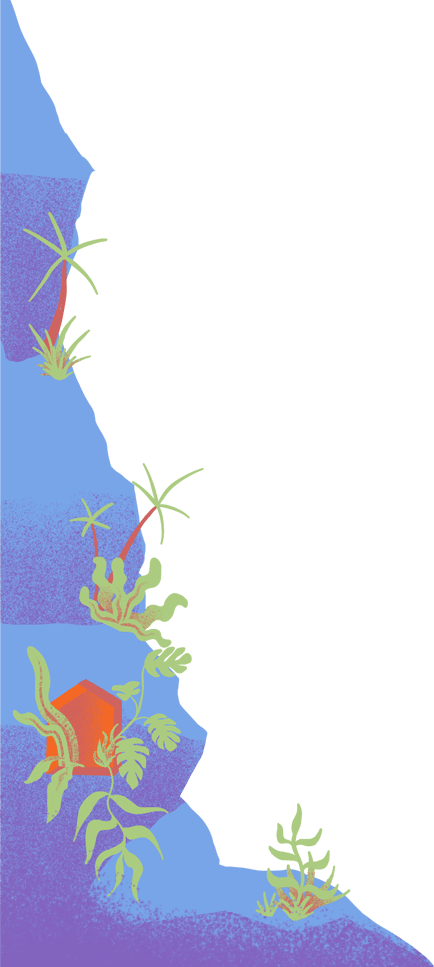
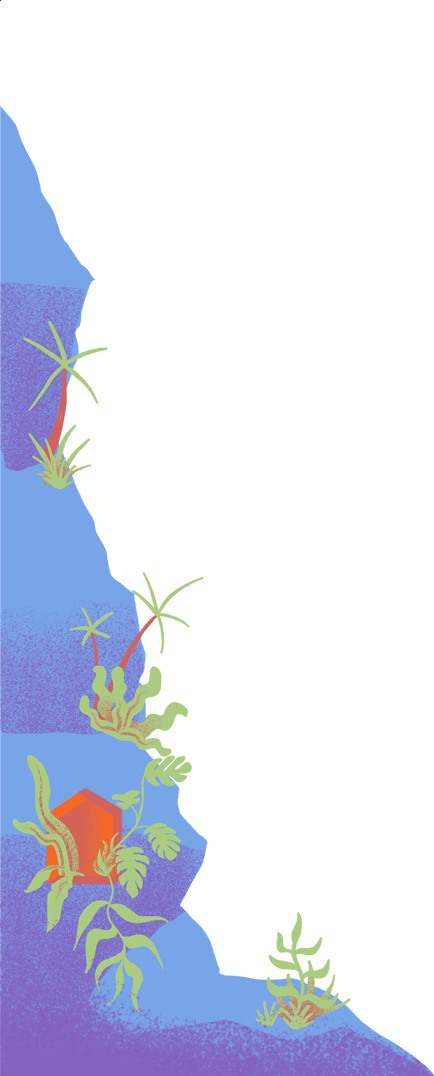
css tweaks for mobile

Changed region(s): [[0.0, 0.0, 0.9585, 0.9928], [0.9885, 0.9928, 1.0, 1.0], [0.4194, 0.4654, 0.4493, 0.4964]]

diff --git a/moodring/styles.css b/moodring/styles.css
@@ -232,7 +232,7 @@ div{
 }
 
 a:link, a:visited {
-  color: #799be2;
+  color: #c0d5ff;
   text-align: center;
   text-decoration: none;
   display: inline-block;
@@ -398,7 +398,7 @@ div.imageRow>a:last-child {
 
 @media (max-width: 680px), screen and (orientation: portrait) {
   #titling {
-    max-width: 14rem;
+    max-width: 8rem;
   }
 }
 
@@ -416,7 +416,7 @@ div.imageRow>a:last-child {
 }
 
 #tower {
-  max-width: 80vw;
+  max-width: 70vw;
 }
 
 @media (max-width: 680px), screen and (orientation: portrait) {
@@ -472,7 +472,7 @@ div.imageRow>a:last-child {
   }
 
   #climber {
-    margin-top: -5rem;
+    margin-top: -3.5rem;
   }
 
 
@@ -487,7 +487,7 @@ div.imageRow>a:last-child {
   align-items: center;
   align-content: center;
   justify-content: space-around;
-  margin: 4rem 0 -2rem 0;
+  /* margin: 4rem 0 -2rem 0; */
 }
 
 @media (max-width: 680px), screen and (orientation: portrait) {
